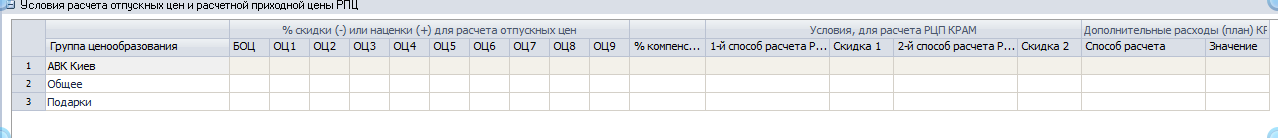
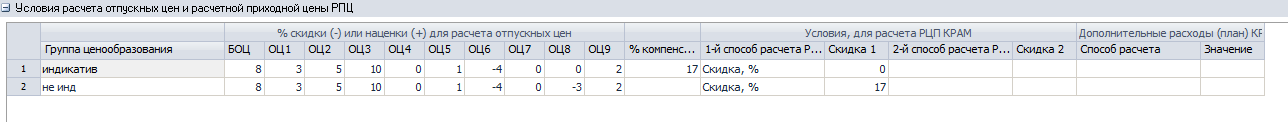
дописал главу Прайс_лист

Changed region(s): [[0.0, 0.0, 1.0, 1.0], [0.9765, 0.9098, 1.0, 1.0], [0.9765, 0.0, 1.0, 0.0738]]

diff --git a/Description of the components/0704/0704_PRICE2_LIST.md b/Description of the components/0704/0704_PRICE2_LIST.md
@@ -17,7 +17,7 @@
 ### Руководство пользователя.
 
 Документ прайс-лист может создаваться и редактироваться на **Центральном офисе (ЦО)** с последующей синхронизацией на филиалы,
-либо на филиале с признаком ЦО. Важно понимать что в один период времени, на одном филиале может существовать только один
+либо на филиале с признаком ЦО. Важно понимать, что по одному **производителю** в один период времени, на одном филиале может существовать только один
 прайс-лист. Система всегда будет проверять на уникальность создаваемого или редактируемого документа. И в случае ошибки выдавать
 сообщение в диалоговом окне.
 
@@ -31,7 +31,7 @@
 Любой сценарий приводит к открытию формы редактирования[^2], которую условно можно разбить на 3 части:
 1. Шапочная часть, ([рис.1](./media/image1.png "рис.1")) - здесь задаются ключевые параметры, такие как: Производитель, Период Действия, Филиалы (для филиальной структуры) и пр.  
 2. Условия расчета отпускных и приходных цен (рис.2) - табличная часть, в которой задаются механизмы расчета, приходных и отпускных цен, с учетом всевозможных скидок и компенсаций.
-3. Таблица Товары (рис.3). - в этой таблице хранятся как уже рассчитанные цены по каждому **ТМЦ**, так и величины, участвующие в расчете и требующие заполнение пользователем.
+3. Таблица Товары (рис.3). - в этой таблице хранятся как уже рассчитанные цены[^7] по каждому **ТМЦ**, так и величины, участвующие в расчете и требующие заполнения пользователем.
 
 
 
@@ -58,16 +58,68 @@
 
 
 #### Условия расчета отпускных и приходных цен
+
+
+
+Ценобразование входных и отпускных цен происходит по следующему принципу:
+- Производитель презентует дистрибьютору схему работы, которая подразумевает, фиксированную входную цену по каждой **ТМЦ** - **Базовая цена прихода БЦП**. По разным группам товара (**Группы ценообразования**) могут быть определенные скидки или компенсации, а также дополнительные расходы. Дополнительные скидки которые может давать производитель дистрибьютору, формируют **Расчетную цену прихода - РЦП**. Поскольку множество производителей имеют разные схемы работы с дистрибьютором, у пользователя должна быть вариабельность инструментов, чтобы задать системе правильную модель взаимодействия. Ключевые отличия - в таблице ниже:  
+
+|     | Компенсация | Скидка | Доп. расход |
+|---------------|------------|----------------------------------------
+| **Расчет РЦП** | не участвует| участвует |не участвует |
+| **Проверка приходных накл.**|  не участвует|участвует| участвует|
+| **Расчет БОЦ** |не участвует |не участвует |не участвует |
+| **2143 OLAP**| попадает|не попадает|не попадает |
+
+- В таблице **Товары** (рис.3) пользователь присваивает **БЦП** каждой **ТМЦ**. Это можно сделать как вручную, так и воспользовавшись кнопкой в правом меню **Копировать БЦП из прошлого прайс-листа**
+
 *рис.2*
 ![рис.2](./media/image2.png "рис.2")
 
+- **Скидка** - заполняется в **Условиях, для расчета РЦП** - и комбинацией двух возможных **способов расчета** формирует **РЦП**, причем задается как в процентах **Скидка, %** (весьма схожа с компенсацией), так и в копейках за литр, **Скидка, коп/литр** (удобно работать с пивными компаниями). Для второго способа важно чтобы в справочнике **0916 СПР Товары** был задан объем каждой **ТМЦ**.
+      РЦП = (БЦП - Скидка_1) - Скидка_2;
 
+ в формуле скобки не случайны, если обе скидки заданы в процентах, то при расчете вторая скидка работает с результатом действия первой скидки (процент от процента). Если используется **Скидка, коп/литр** то:
 
+        Скидка = БЦП * Объем ТМЦ * Значение скидки, коп/л
+Обратите внимание на 2 особенности: скидка может быть только положительной, а значение скидки №1 должно быть обязательно заполнено (если нет скидок необходимо поставить 0).
+
+ После того как пользователь задаст системе механизм расчета скидок, в таблице **Товары** рассчитается и заполнится столбец **РЦП**.
+ Теперь все **приходные накладные** при проведении, будут проходить проверку на то чтобы цена прихода не превышала **РЦП**, а в таких отчетах как например 2143 или 1084[^8] можно увидеть эту цену, а также % наценки и прибыль от данной цены.
+
+- **Компенсация** - применяется преимущественно для индикативного товара, когда цена в накладных не может быть выше или ниже определенного уровня, при этом наценка и дистрибьютора, и производителя контролируется государством и не может превышать допустимого порога. На такие группы товара можно задать  % компенсации, для того чтобы потом в отчете суммарно увидеть объем вторичных продаж за определенный период. Процентная величина может быть как положительной так и отрицательной. Положительная - компенсируют нам, отрицательная - какие либо наши затраты (применяется редко, но тем не менее имеет место быть, например: если на определенный период производитель наложил штраф на дистрибьютора). Когда пользователь заполнит поле компенсация, программа автоматически рассчитает и заполнит в таблице **Товары** (рис.3), столбец **Компенсация, грн** по формуле:
+
+      Компенсация грн. = РЦП * %Компенсации.
+
+- **Дополнительные расходы, (план)** - поле используется не так часто, в основном когда дистрибьютор хочет заложить в схему затрат, то что выходит за рамки, согласованной с производителем, ценовой модели. Например, транспортные затраты при самовывозе. При помощи этого параметра будет осуществляться дополнительный контроль на этапе проведения **приходных накладных**. Пользователю необходимо выбрать форму расчета **% РЦП** или **Сумма** и заполнить численный параметр (только положительные значения), система рассчитает и заполнит в таблице **Товары** (рис.3) дополнительные расходы по каждой ТМЦ.
+
+- **% скидки или наценки для расчета отпускных цен** - в этом поле можно сформировать 10 различных категорий цен:
+ - **Базовая отпускная цена (БОЦ)** - является основной, прайсовой ценой дистрибьютора и расcчитывается по следующей формуле:
+
+        БОЦ = БЦП + % наценки до БОЦ
+  чтобы в таблице **товары** рассчиталась эта цена, пользователю необходимо в столбце **БОЦ**, поставить необходимый % наценки от **БЦП** до **БОЦ** (рис.2)
+ -  **ОЦ1, ОЦ2, ... ОЦ9** - девять дополнительных категорий **Отпускных цен**, для того чтобы задавать сетку скидок (наценок) для разных категорий клиентов.
+
+          ОЦn = БОЦ + % наценки до ОЦn
+чтобы в таблице **товары** рассчиталась эта дополнительная скидочная цена, пользователю необходимо в столбце соответствующей **ОЦ**, поставить необходимый % наценки от **БОЦ** до **ОЦ** (рис.2).
+
+ Согласно отпускных цен формируются расходные накладные, поэтому если по какой-либо **ТМЦ** не будет задана цена, ее не получится продать клиенту, поэтому все столбцы **БОЦ** и **ОЦ** должны быть заполнены.
 
 #### Таблица Товары
 *рис.3*
 ![рис.3](./media/image3.png "рис.3")
 
+В этой таблице как уже описывалось выше , пользователю необходимо заполнять только **БЦП**, все остальные данные будут заполнены автоматически. По сути это и есть прайс-лист дистрибьютора. Если же по каким-то причинам пользователь неправильно расценит
+товар и какая-либо отпускная цена в таблице окажется ниже **РЦП** система выдаст предупреждение и обнулит неправильные цены, пользователю необходимо будет исправить свою ошибку.
+
+Для того чтобы было проще проконтролировать наценку, можно поставить курсор на **ТМЦ** и интересующую категорию цен и в правом меню нажать **Показать коэффициенты (Ctrl+I)**, в диалоговом окне отобразится скидка (наценка) от БОЦ, и расчетная наценка от РЦП.
+
+
+
+*рис.4*
+![рис.4](./media/image4.png "рис.4")
+
+Когда прайс будет сформирован, то перед тем как выполнить его сохранение, программа предложит пересчитать все накладные в статусе резерв и черновик, которые попадают в период действия этого прайс-листа, и пользователю необходимо будет принять решение. Иногда поздно созданный прайс-лист может содержать в себе значительные изменения в ценовой политике, и если к этому времени отделы продаж уже сформировали значительное количество заявок, то проигнорировав этот сценарий, накладные не пересчитаются и поедут в розницу по старым ценам, а это приведет компанию к определенным убыткам. Также это действие можно запустить в ручном режиме, нажав в правом меню, **Изменить цены в существующих накладных в статусе резерв и черновик**    
 
 [^1]: под термином **Производитель** в контексте всей этой книги подразумевается поставщик дистрибьютора. Им может быть не только производитель какого либо товара, но также импортер, другой дистрибьютор (дистрибьютор поставляет товар субдистрибьютору), и вообще любой поставщик, с которым дистрибьютор заключил договор поставки в качестве покупателя.
 
@@ -80,3 +132,7 @@
 [^5]: перенаполнение таблиц также происходит и при редактировании действующего прайс-листа
 
 [^6]: при сохранении прайса, для всех спецификаций в статусе **Действительный**, с датой **действительна по** не указанной или больше  **дата начала действия прайс-листа - 1** и в которых есть товары **производителя**, обновляется дата **действительна по** согласно формуле: **действителен по = дата начала действия прайс-листа - 1**. Фактически, если прайс-лист начинает действовать с сегодняшнего дня, то действующие спецификации производителя закрываются вчерашним днем.
+
+[^7]: все цены и абсолютные величины в этом документе без учета НДС.
+
+[^8]: цена в **Акционных накладных** в **1084 ОТЧ Ежедневные отгрузки** берется в РЦП из действующего прайс-листа
